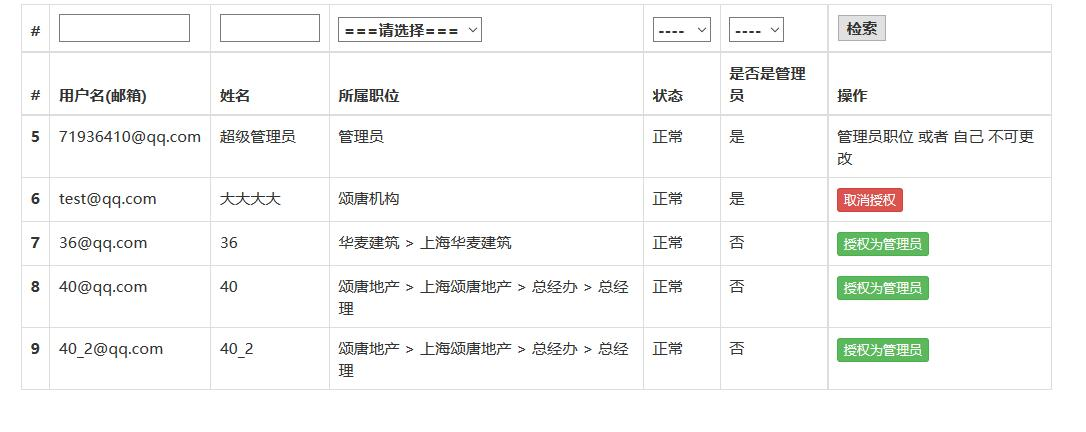
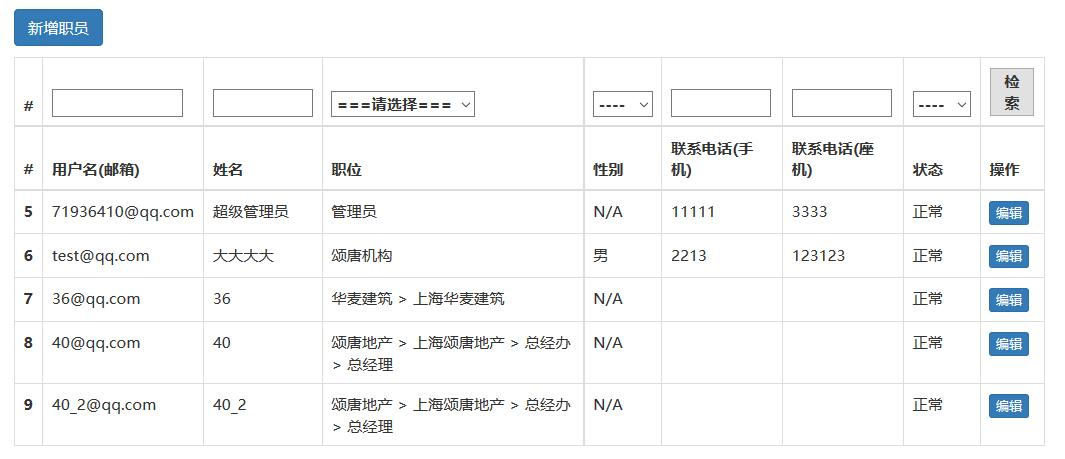
目录权限 帮助中心

diff --git a/views/manage/help/index_5.php b/views/manage/help/index_5.php
@@ -2,8 +2,9 @@
 <div style="padding:10px;">
     <div class="bg-primary" style="padding:10px 0;">
         <ul >
-            <li>5 公司职员</li>
-            <li>5.1 管理列表：显示所有职员</li>
+            <li>5 目录权限</li>
+            <li>5.1 进入目录权限管理页面：<br/>通过 “职位/部门”列表页，点击某个职位的“目录权限”按钮，进入当前职位的目录权限管理页面</li>
+            <!--<li>5.1 管理列表：显示所有职员</li>
             <li>5.2 职员资料
                 <ul>
                     <li>用户名（邮箱）：用来作为登录系统的用户名</li>
@@ -14,7 +15,7 @@
                     <li>联系电话：座机</li>
                     <li>状态</li>
                 </ul>
-            </li>
+            </li>-->
 
         </ul>
     </div>
@@ -24,19 +25,23 @@
     <div  class="bg-primary" style="padding:10px 0;">
         <ul >
             <li>
-                5.3 资料编辑
+                5.2 目录权限管理页面
+                <ul>
+                    <li>目录权限为一个职位和一个目录对应的权限关系</li>
+                    <li>权限分为4种，上传（公共）、下载（公共）、上传（个人）、下载（最高）
+                        <ul>
+                            <li>上传（公共）：通过此上传的文件需要有对应的“下载（公共）”权限进行下载</li>
+                            <li>下载（公共）：下载通过“上传（公共）”上传的文件</li>
+                            <li>上传（个人）：通过此上传的文件，只有自己本人可以下载，或者有最高下载权限</li>
+                            <li>下载（最高）：可下载通过各种权限上传的文件</li>
+                        </ul>
+                    </li>
+
+                </ul>
             </li>
         </ul>
     </div>
     <p class="text-center">
         <img src="/images/manage-help/5-2.jpg" class="img-thumbnail">
-    </p>
-    <div class="bg-primary" style="padding:10px 0;">
-        <ul >
-            <li>5.3 条件筛选</li>
-        </ul>
-    </div>
-    <p class="text-center">
-        <img src="/images/manage-help/5-3.jpg" class="img-thumbnail">
     </p>
 </div>

diff --git a/views/manage/help/index_7.php b/views/manage/help/index_7.php
@@ -1,11 +1,13 @@
 <?=$this->render('_nav')?>
+
 <div style="padding:10px;">
     <div class="bg-primary" style="padding:10px 0;">
         <ul >
-            <li>
-                7 消息通知
+            <li>7 管理员授权
                 <ul>
-                    <li>分为“对单一职员”、“对整个部门/职位”、“对全体职员”，3种发送方式</li>
+                    <li>可对一个普通职员*进行管理员权限的授权和取消授权</li>
+                    <li>*普通职员 是指一个非“管理员”职位的职员，管理员职位ID为1</li>
+                    <li>也不能对自己进行操作</li>
                 </ul>
             </li>
 
@@ -14,39 +16,5 @@
     <p class="text-center">
         <img src="/images/manage-help/7.jpg" class="img-thumbnail">
     </p>
-    <div class="bg-primary" style="padding:10px 0;">
-        <ul >
-            <li>
-                7.1 对单一职员发送：需要选择职员ID
-            </li>
 
-        </ul>
-    </div>
-    <p class="text-center">
-        <img src="/images/manage-help/7-2.jpg" class="img-thumbnail">
-    </p>
-
-    <div class="bg-primary" style="padding:10px 0;">
-        <ul >
-            <li>
-                7.2 对整个部门/职位下归属的职员发送：需要选择部门/职位ID
-            </li>
-
-        </ul>
-    </div>
-    <p class="text-center">
-        <img src="/images/manage-help/7-3.jpg" class="img-thumbnail">
-    </p>
-
-    <div class="bg-primary" style="padding:10px 0;">
-        <ul >
-            <li>
-                7.3 对全体职员发送：无任何选项，对所有职员发送
-            </li>
-
-        </ul>
-    </div>
-    <p class="text-center">
-        <img src="/images/manage-help/7-4.jpg" class="img-thumbnail">
-    </p>
 </div>

diff --git a/views/manage/help/index_6.php b/views/manage/help/index_6.php
@@ -1,13 +1,18 @@
 <?=$this->render('_nav')?>
-
 <div style="padding:10px;">
     <div class="bg-primary" style="padding:10px 0;">
         <ul >
-            <li>6 管理员授权
+            <li>6 公司职员</li>
+            <li>6.1 管理列表：显示所有职员</li>
+            <li>6.2 职员资料
                 <ul>
-                    <li>可对一个普通职员*进行管理员权限的授权和取消授权</li>
-                    <li>*普通职员 是指一个非“管理员”职位的职员，管理员职位ID为1</li>
-                    <li>也不能对自己进行操作</li>
+                    <li>用户名（邮箱）：用来作为登录系统的用户名</li>
+                    <li>姓名：职员姓名</li>
+                    <li>职位：职员对应职位（一个职员只能对应一个职位）</li>
+                    <li>性别</li>
+                    <li>联系电话：手机</li>
+                    <li>联系电话：座机</li>
+                    <li>状态</li>
                 </ul>
             </li>
 
@@ -16,5 +21,22 @@
     <p class="text-center">
         <img src="/images/manage-help/6.jpg" class="img-thumbnail">
     </p>
-
+    <div  class="bg-primary" style="padding:10px 0;">
+        <ul >
+            <li>
+                5.3 资料编辑
+            </li>
+        </ul>
+    </div>
+    <p class="text-center">
+        <img src="/images/manage-help/6-2.jpg" class="img-thumbnail">
+    </p>
+    <div class="bg-primary" style="padding:10px 0;">
+        <ul >
+            <li>5.3 条件筛选</li>
+        </ul>
+    </div>
+    <p class="text-center">
+        <img src="/images/manage-help/6-3.jpg" class="img-thumbnail">
+    </p>
 </div>

diff --git a/views/manage/help/_nav.php b/views/manage/help/_nav.php
@@ -8,7 +8,8 @@
         <li role="presentation" class="<?=yii::$app->request->get('index',1)==2?'active':''?>"><?=Html::a('消息通知',['/manage/help?index=2'])?></li>
         <li role="presentation" class="<?=yii::$app->request->get('index',1)==3?'active':''?>"><?=Html::a('部门/职位',['/manage/help?index=3'])?></li>
         <li role="presentation" class="<?=yii::$app->request->get('index',1)==4?'active':''?>"><?=Html::a('板块目录',['/manage/help?index=4'])?></li>
-        <li role="presentation" class="<?=yii::$app->request->get('index',1)==5?'active':''?>"><?=Html::a('公司职员',['/manage/help?index=5'])?></li>
-        <li role="presentation" class="<?=yii::$app->request->get('index',1)==6?'active':''?>"><?=Html::a('管理员授权',['/manage/help?index=6'])?></li>
-        <li role="presentation" class="<?=yii::$app->request->get('index',1)==7?'active':''?>"><?=Html::a('消息通知',['/manage/help?index=7'])?></li>
+        <li role="presentation" class="<?=yii::$app->request->get('index',1)==5?'active':''?>"><?=Html::a('目录权限',['/manage/help?index=5'])?></li>
+        <li role="presentation" class="<?=yii::$app->request->get('index',1)==6?'active':''?>"><?=Html::a('公司职员',['/manage/help?index=6'])?></li>
+        <li role="presentation" class="<?=yii::$app->request->get('index',1)==7?'active':''?>"><?=Html::a('管理员授权',['/manage/help?index=7'])?></li>
+        <li role="presentation" class="<?=yii::$app->request->get('index',1)==8?'active':''?>"><?=Html::a('消息通知',['/manage/help?index=8'])?></li>
     </ul>

diff --git a/views/manage/help/index_8.php b/views/manage/help/index_8.php
@@ -1,0 +1,52 @@
+<?=$this->render('_nav')?>
+<div style="padding:10px;">
+    <div class="bg-primary" style="padding:10px 0;">
+        <ul >
+            <li>
+                8 消息通知
+                <ul>
+                    <li>分为“对单一职员”、“对整个部门/职位”、“对全体职员”，3种发送方式</li>
+                </ul>
+            </li>
+
+        </ul>
+    </div>
+    <p class="text-center">
+        <img src="/images/manage-help/8.jpg" class="img-thumbnail">
+    </p>
+    <div class="bg-primary" style="padding:10px 0;">
+        <ul >
+            <li>
+                8.1 对单一职员发送：需要选择职员ID
+            </li>
+
+        </ul>
+    </div>
+    <p class="text-center">
+        <img src="/images/manage-help/8-2.jpg" class="img-thumbnail">
+    </p>
+
+    <div class="bg-primary" style="padding:10px 0;">
+        <ul >
+            <li>
+                8.2 对整个部门/职位下归属的职员发送：需要选择部门/职位ID
+            </li>
+
+        </ul>
+    </div>
+    <p class="text-center">
+        <img src="/images/manage-help/8-3.jpg" class="img-thumbnail">
+    </p>
+
+    <div class="bg-primary" style="padding:10px 0;">
+        <ul >
+            <li>
+                8.3 对全体职员发送：无任何选项，对所有职员发送
+            </li>
+
+        </ul>
+    </div>
+    <p class="text-center">
+        <img src="/images/manage-help/8-4.jpg" class="img-thumbnail">
+    </p>
+</div>

diff --git a/views/manage/help/index_3.php b/views/manage/help/index_3.php
@@ -27,7 +27,7 @@
                     <li>由“类型”一栏表示该行是部门还是职位</li>
                     <li>编辑：可编辑“部门/职位”的名称、排序、状态</li>
                     <li>查看职员：查看对应“部门/职位”下的所有职员</li>
-                    <li>目录权限：只有“职位”类型可以管理，管理对应的目录板块操作（上传下载）权限</li>
+                    <li>目录权限：只有“职位”类型可以管理，管理对应的目录板块操作（上传下载）权限 **详见目录权限**</li>
                 </ul>
             </li>
         </ul>

diff --git a/controllers/ManageController.php b/controllers/ManageController.php
@@ -132,7 +132,7 @@ class ManageController extends BaseController
         //$this->layout = ''
         $this->view->title = '管理中心 - 帮助'.$this->titleSuffix;
         $index = yii::$app->request->get('index',1);
-        if(in_array($index,[1,2,3,4,5,6,7])){
+        if(in_array($index,[1,2,3,4,5,6,7,8])){
             $viewName = 'index';
             if($index>1){
                 $viewName .= '_'.$index;
